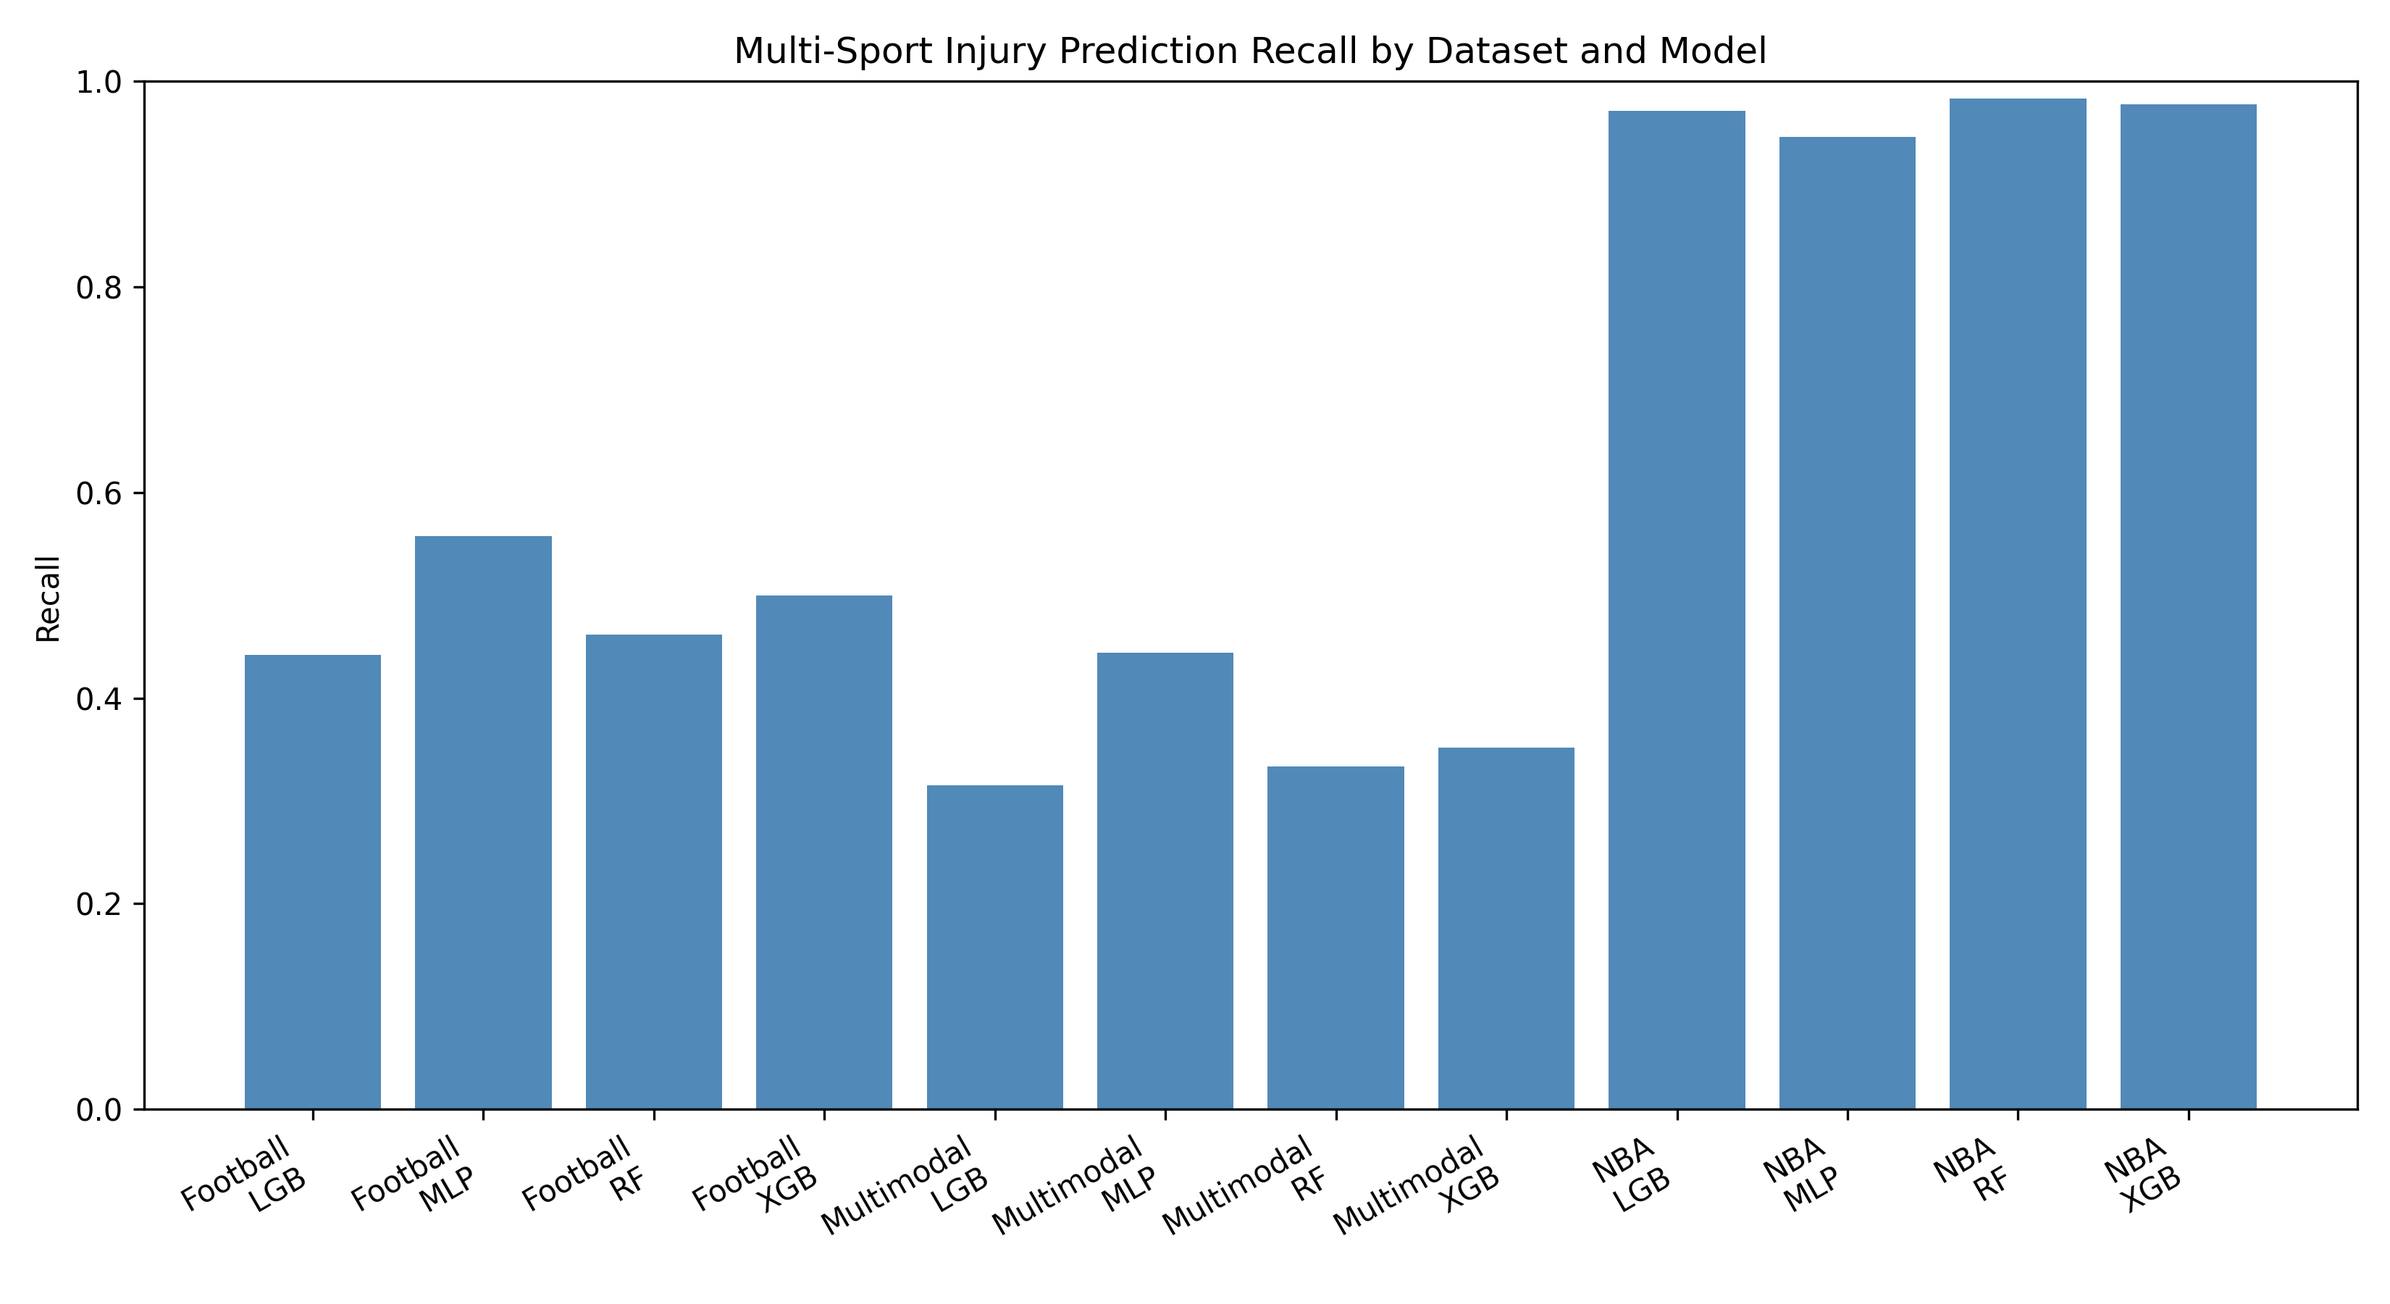
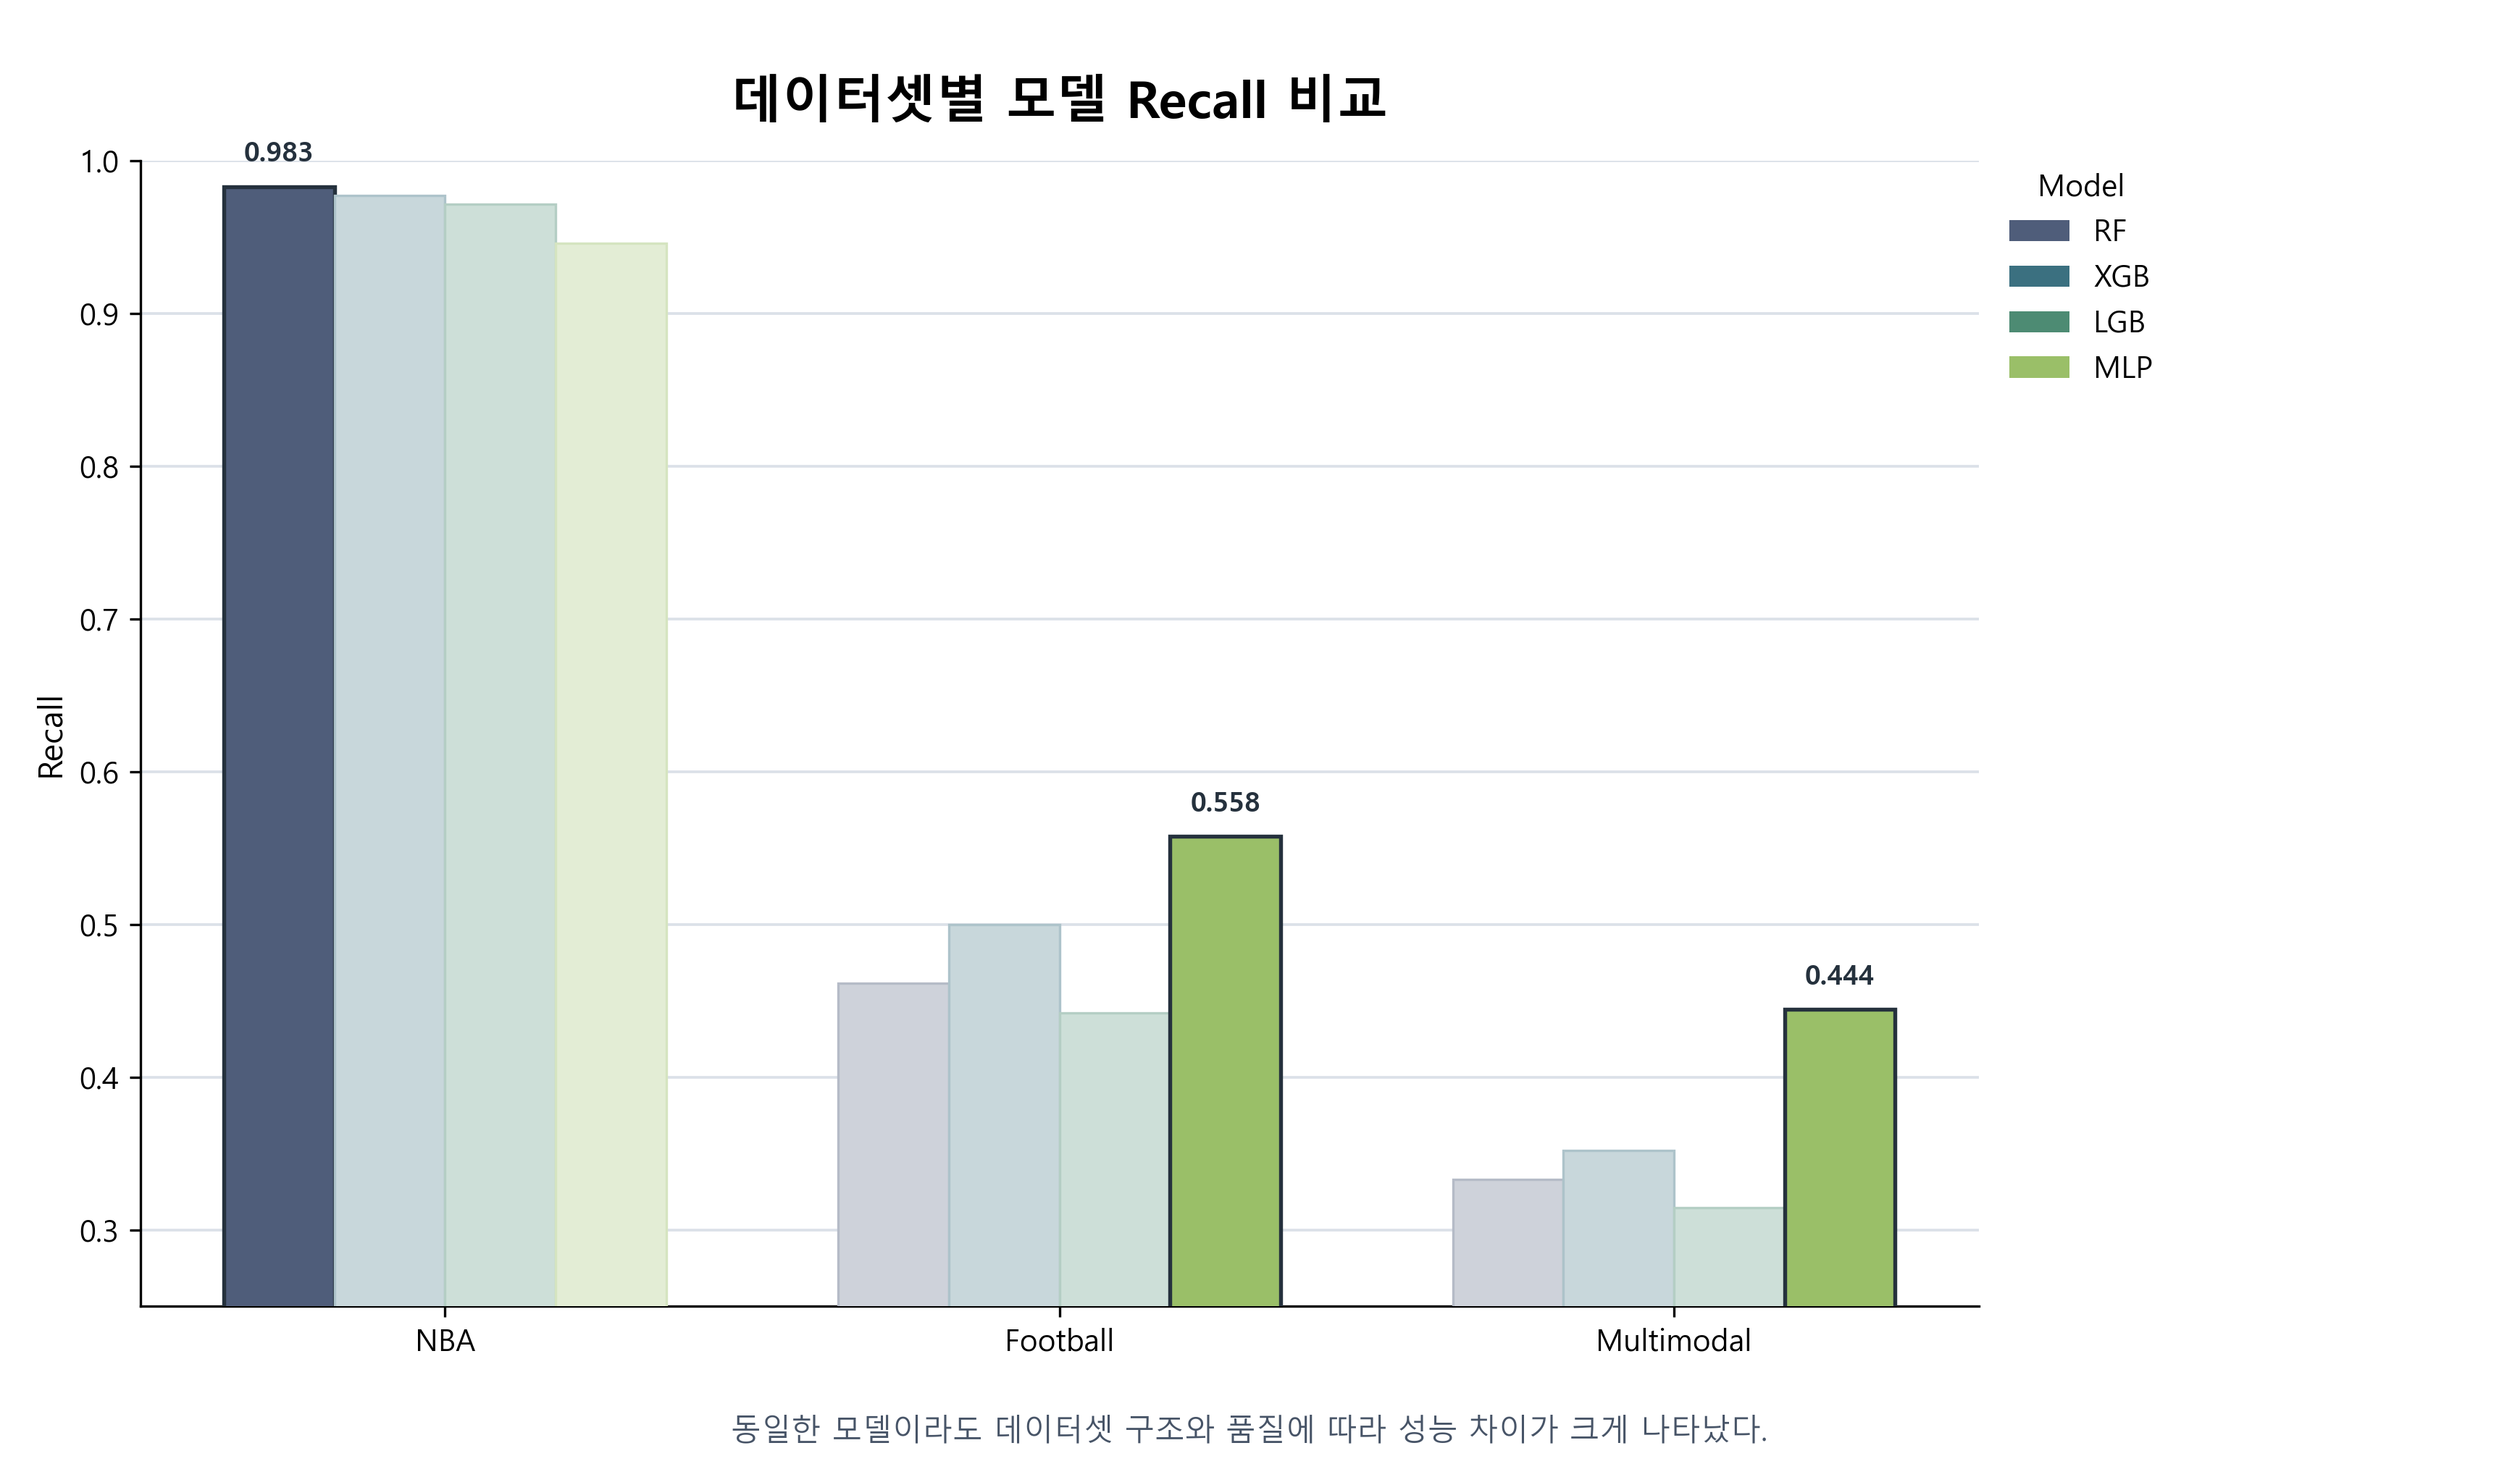
feat: refine portfolio comparison charts and add reporting tests

diff --git a/src/train/reporting.py b/src/train/reporting.py
@@ -3,16 +3,39 @@
 from __future__ import annotations
 
 import logging
+import math
 from pathlib import Path
 
 import matplotlib.pyplot as plt
 import pandas as pd
+from matplotlib import colors as mcolors
+from matplotlib import font_manager
+from matplotlib.patches import Patch
+import numpy as np
 
 LOGGER = logging.getLogger(__name__)
+PREFERRED_FONT_FAMILIES = (
+    "Malgun Gothic",
+    "AppleGothic",
+    "NanumGothic",
+    "Noto Sans CJK KR",
+    "DejaVu Sans",
+)
+DATASET_ORDER = ["NBA", "Football", "Multimodal"]
+MODEL_ORDER = ["RF", "XGB", "LGB", "MLP"]
+MODEL_COLORS = {
+    "RF": "#4F5D7A",
+    "XGB": "#3B7080",
+    "LGB": "#4D8B73",
+    "MLP": "#9ABF68",
+}
+_FONT_CONFIGURED = False
 
 
 def refresh_reports(project_root: Path, high_risk_x: str, high_risk_y: str) -> None:
     """Regenerate comparison markdown and insights plots from latest artifacts."""
+
+    _configure_matplotlib_fonts()
 
     results_dir = project_root / "results"
     insights_dir = project_root / "insights"
@@ -77,17 +100,101 @@ def _write_model_comparison(output_path: Path, combined: pd.DataFrame) -> None:
 
 
 def _plot_model_comparison(output_path: Path, combined: pd.DataFrame) -> None:
-    plt.figure(figsize=(11, 6))
-    ordered = combined.sort_values(["Dataset", "Model"]).copy()
-    labels = [f"{dataset}\n{model}" for dataset, model in zip(ordered["Dataset"], ordered["Model"])]
-    plt.bar(labels, ordered["Recall"], color="#3e7cb1", alpha=0.9)
-    plt.title("Multi-Sport Injury Prediction Recall by Dataset and Model")
-    plt.ylabel("Recall")
-    plt.ylim(0, 1.0)
-    plt.xticks(rotation=30, ha="right")
-    plt.tight_layout()
-    plt.savefig(output_path, dpi=300)
-    plt.close()
+    _configure_matplotlib_fonts()
+
+    pivoted, best_models, lower_bound = _prepare_model_comparison(combined)
+    if pivoted.empty:
+        _save_placeholder_plot(
+            output_path,
+            "데이터셋별 모델 Recall 비교",
+            "Run at least one standardized experiment to generate comparison data.",
+        )
+        return
+
+    figure, axis = plt.subplots(figsize=(11.5, 6.8))
+    positions = np.arange(len(pivoted.index), dtype=float)
+    width = 0.18
+    offsets = np.linspace(-1.5 * width, 1.5 * width, num=len(MODEL_ORDER))
+
+    for model_name, offset in zip(MODEL_ORDER, offsets):
+        recalls = pivoted[model_name].to_numpy(dtype=float)
+        bar_positions = positions + offset
+        colors = []
+        edge_colors = []
+        line_widths = []
+        for dataset_name, recall_value in zip(pivoted.index, recalls):
+            if np.isnan(recall_value):
+                colors.append((0.0, 0.0, 0.0, 0.0))
+                edge_colors.append((0.0, 0.0, 0.0, 0.0))
+                line_widths.append(0.0)
+                continue
+
+            is_best_model = best_models.loc[dataset_name] == model_name
+            if is_best_model:
+                colors.append(MODEL_COLORS[model_name])
+                edge_colors.append("#25313D")
+                line_widths.append(1.3)
+            else:
+                colors.append(_blend_with_white(MODEL_COLORS[model_name], blend_ratio=0.72))
+                edge_colors.append(_blend_with_white(MODEL_COLORS[model_name], blend_ratio=0.58))
+                line_widths.append(0.8)
+
+        bars = axis.bar(
+            bar_positions,
+            recalls,
+            width=width,
+            color=colors,
+            edgecolor=edge_colors,
+            linewidth=line_widths,
+            zorder=3,
+        )
+
+        for dataset_name, recall_value, bar in zip(pivoted.index, recalls, bars):
+            if np.isnan(recall_value) or best_models.loc[dataset_name] != model_name:
+                continue
+            axis.text(
+                bar.get_x() + bar.get_width() / 2,
+                recall_value + 0.012,
+                f"{recall_value:.3f}",
+                ha="center",
+                va="bottom",
+                fontsize=9,
+                fontweight="bold",
+                color="#25313D",
+            )
+
+    axis.set_title("데이터셋별 모델 Recall 비교", fontsize=17, pad=14, fontweight="bold")
+    axis.set_ylabel("Recall", fontsize=11)
+    axis.set_xticks(positions)
+    axis.set_xticklabels(pivoted.index, fontsize=10)
+    axis.set_ylim(lower_bound, 1.0)
+    axis.grid(axis="y", color="#D8DEE6", linewidth=0.9, alpha=0.9, zorder=0)
+    axis.set_axisbelow(True)
+    axis.spines["top"].set_visible(False)
+    axis.spines["right"].set_visible(False)
+
+    legend_handles = [Patch(facecolor=MODEL_COLORS[model_name], edgecolor="none", label=model_name) for model_name in MODEL_ORDER]
+    axis.legend(
+        handles=legend_handles,
+        title="Model",
+        loc="upper left",
+        bbox_to_anchor=(1.01, 1.0),
+        borderaxespad=0.0,
+        frameon=False,
+    )
+
+    figure.text(
+        0.5,
+        0.02,
+        "동일한 모델이라도 데이터셋 구조와 품질에 따라 성능 차이가 크게 나타났다.",
+        ha="center",
+        va="bottom",
+        fontsize=10,
+        color="#475467",
+    )
+    figure.tight_layout(rect=(0.0, 0.06, 0.88, 0.97))
+    figure.savefig(output_path, dpi=300)
+    plt.close(figure)
 
 
 def _plot_nba_feature_importance(project_root: Path, output_path: Path) -> None:
@@ -154,6 +261,7 @@ def _plot_multimodal_risk_zone(
 
 
 def _save_placeholder_plot(output_path: Path, title: str, message: str) -> None:
+    _configure_matplotlib_fonts()
     plt.figure(figsize=(8, 4))
     plt.axis("off")
     plt.title(title)
@@ -161,3 +269,56 @@ def _save_placeholder_plot(output_path: Path, title: str, message: str) -> None:
     plt.tight_layout()
     plt.savefig(output_path, dpi=300)
     plt.close()
+
+
+def _prepare_model_comparison(combined: pd.DataFrame) -> tuple[pd.DataFrame, pd.Series, float]:
+    ordered = combined.copy()
+    ordered["Dataset"] = pd.Categorical(ordered["Dataset"], categories=DATASET_ORDER, ordered=True)
+    ordered["Model"] = pd.Categorical(ordered["Model"], categories=MODEL_ORDER, ordered=True)
+    ordered = ordered.sort_values(["Dataset", "Model"]).dropna(subset=["Dataset", "Model"])
+
+    pivoted = ordered.pivot_table(
+        index="Dataset",
+        columns="Model",
+        values="Recall",
+        aggfunc="max",
+        observed=False,
+    )
+    pivoted = pivoted.reindex(DATASET_ORDER).dropna(how="all")
+    pivoted = pivoted.reindex(columns=MODEL_ORDER)
+    if pivoted.empty:
+        return pivoted, pd.Series(dtype="object"), 0.0
+
+    best_models = pivoted.idxmax(axis=1)
+    lower_bound = _comparison_y_axis_lower_bound(pivoted)
+    return pivoted, best_models, lower_bound
+
+
+def _comparison_y_axis_lower_bound(pivoted: pd.DataFrame) -> float:
+    min_recall = float(np.nanmin(pivoted.to_numpy(dtype=float)))
+    if math.isnan(min_recall):
+        return 0.25
+    return 0.25
+
+
+def _blend_with_white(color: str, blend_ratio: float) -> tuple[float, float, float]:
+    red, green, blue = mcolors.to_rgb(color)
+    return (
+        red + (1.0 - red) * blend_ratio,
+        green + (1.0 - green) * blend_ratio,
+        blue + (1.0 - blue) * blend_ratio,
+    )
+
+
+def _configure_matplotlib_fonts() -> None:
+    global _FONT_CONFIGURED
+    if _FONT_CONFIGURED:
+        return
+
+    available_fonts = {font.name for font in font_manager.fontManager.ttflist}
+    for family in PREFERRED_FONT_FAMILIES:
+        if family in available_fonts:
+            plt.rcParams["font.family"] = family
+            break
+    plt.rcParams["axes.unicode_minus"] = False
+    _FONT_CONFIGURED = True

diff --git a/tests/test_reporting.py b/tests/test_reporting.py
@@ -1,0 +1,60 @@
+"""Tests for report generation helpers."""
+
+from __future__ import annotations
+
+import unittest
+from pathlib import Path
+
+import matplotlib
+import pandas as pd
+
+matplotlib.use("Agg")
+
+from src.train.reporting import _plot_model_comparison, _prepare_model_comparison
+
+PROJECT_ROOT = Path(__file__).resolve().parents[1]
+
+
+class ReportingTests(unittest.TestCase):
+    """Verify portfolio-facing comparison plots are generated predictably."""
+
+    def setUp(self) -> None:
+        self.combined = pd.DataFrame(
+            [
+                {"Dataset": "Football", "Model": "RF", "Recall": 0.46},
+                {"Dataset": "Football", "Model": "XGB", "Recall": 0.50},
+                {"Dataset": "Football", "Model": "LGB", "Recall": 0.44},
+                {"Dataset": "Football", "Model": "MLP", "Recall": 0.56},
+                {"Dataset": "Multimodal", "Model": "RF", "Recall": 0.33},
+                {"Dataset": "Multimodal", "Model": "XGB", "Recall": 0.35},
+                {"Dataset": "Multimodal", "Model": "LGB", "Recall": 0.31},
+                {"Dataset": "Multimodal", "Model": "MLP", "Recall": 0.44},
+                {"Dataset": "NBA", "Model": "RF", "Recall": 0.98},
+                {"Dataset": "NBA", "Model": "XGB", "Recall": 0.97},
+                {"Dataset": "NBA", "Model": "LGB", "Recall": 0.96},
+                {"Dataset": "NBA", "Model": "MLP", "Recall": 0.95},
+            ]
+        )
+
+    def test_prepare_model_comparison_uses_portfolio_order(self) -> None:
+        pivoted, best_models, lower_bound = _prepare_model_comparison(self.combined)
+
+        self.assertEqual(list(pivoted.index), ["NBA", "Football", "Multimodal"])
+        self.assertEqual(list(pivoted.columns), ["RF", "XGB", "LGB", "MLP"])
+        self.assertEqual(best_models.to_dict(), {"NBA": "RF", "Football": "MLP", "Multimodal": "MLP"})
+        self.assertEqual(lower_bound, 0.25)
+
+    def test_plot_model_comparison_writes_png(self) -> None:
+        output_path = PROJECT_ROOT / "tests" / "_tmp_model_comparison.png"
+        try:
+            _plot_model_comparison(output_path, self.combined)
+
+            self.assertTrue(output_path.exists())
+            self.assertGreater(output_path.stat().st_size, 0)
+        finally:
+            if output_path.exists():
+                output_path.unlink()
+
+
+if __name__ == "__main__":
+    unittest.main()
